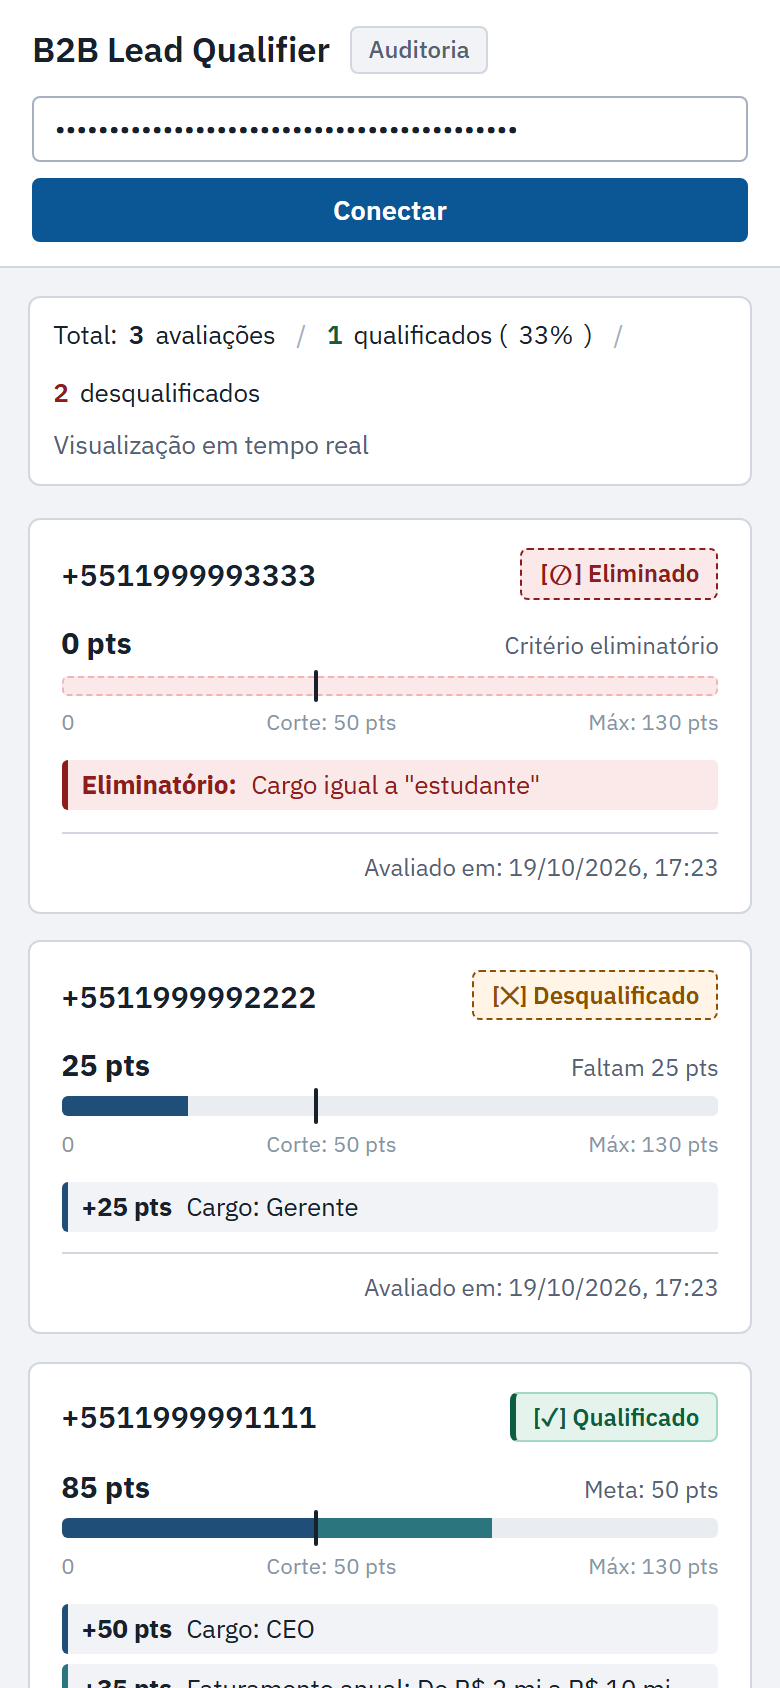
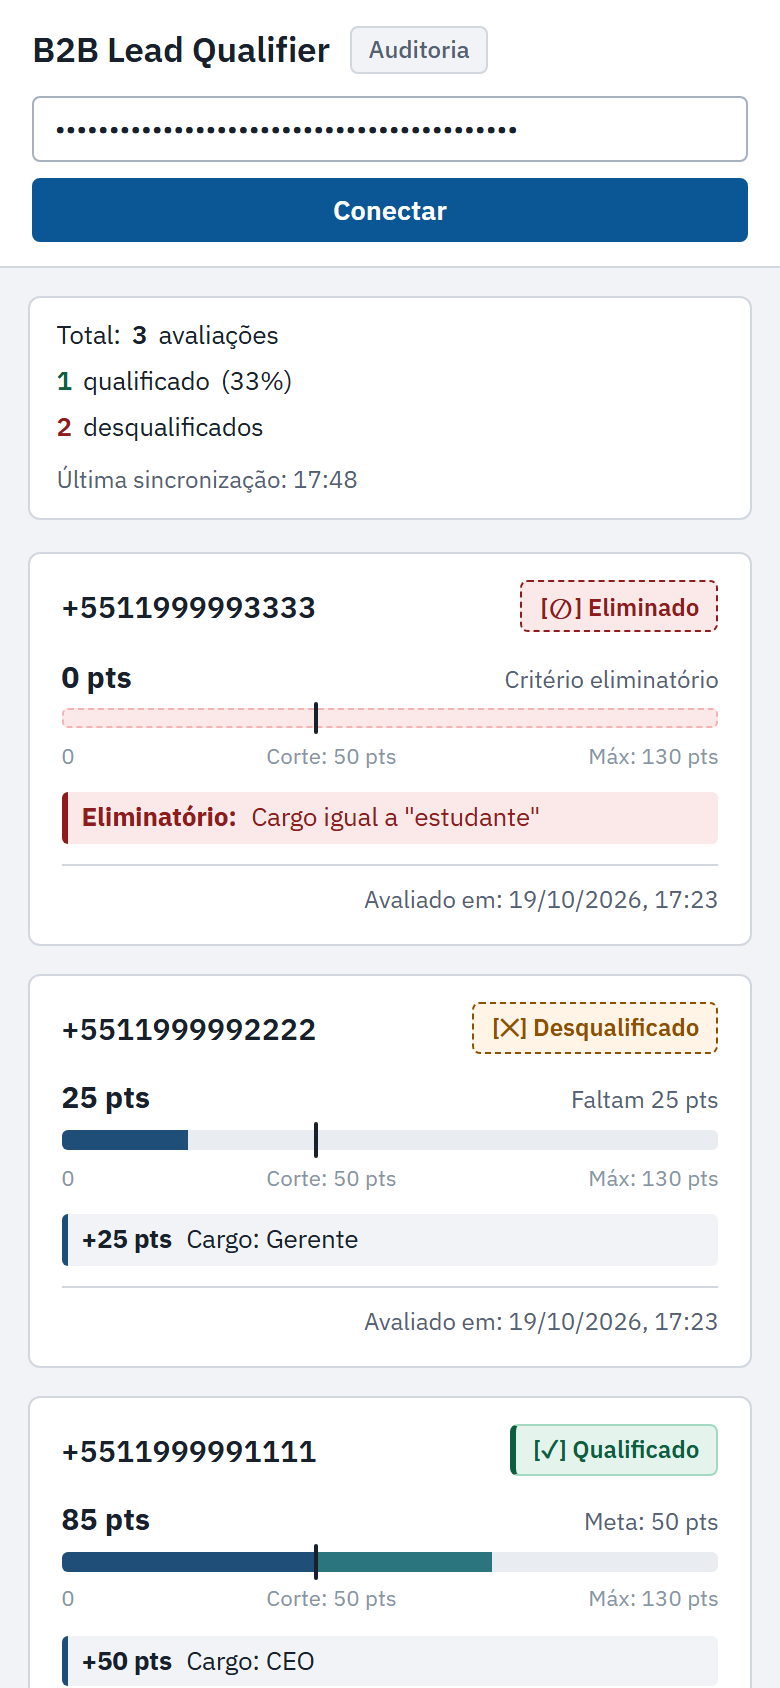
fix(dashboard): polish summary timestamp, percentage spacing, and mobile stack layout
Update summary bar to display Brazilian last sync time 'Última sincronização: HH:MM', format rate percentage without inner spaces '(33%)', and stack mobile summary parts vertically without slashes.

diff --git a/src/lead_qualifier/templates/dashboard.html b/src/lead_qualifier/templates/dashboard.html
@@ -587,8 +587,27 @@
             }
 
             .summary-bar {
-                padding: 0.6rem 0.75rem;
+                padding: 0.65rem 0.85rem;
                 font-size: 0.8rem;
+                flex-direction: column;
+                align-items: flex-start;
+                gap: 0.35rem;
+            }
+
+            .summary-main {
+                flex-direction: column;
+                align-items: flex-start;
+                gap: 0.25rem;
+            }
+
+            .summary-divider {
+                display: none !important;
+            }
+
+            .summary-aux {
+                font-size: 0.75rem;
+                color: var(--text-muted);
+                margin-top: 0.15rem;
             }
 
             /* No mobile, oculta tabela com rolagem e exibe fichas empilhadas */
@@ -656,12 +675,12 @@
                 <div class="summary-main">
                     <span class="summary-part">Total: <span id="summaryTotal" class="summary-count">0</span> avaliações</span>
                     <span class="summary-divider">/</span>
-                    <span class="summary-part"><span id="summaryQualified" class="summary-count qual">0</span> qualificados (<span id="summaryRate">0%</span>)</span>
+                    <span class="summary-part"><span id="summaryQualified" class="summary-count qual">0</span> <span id="summaryQualLabel">qualificados</span> <span id="summaryRate" class="summary-rate">(0%)</span></span>
                     <span class="summary-divider">/</span>
                     <span class="summary-part"><span id="summaryDisqualified" class="summary-count disq">0</span> desqualificados</span>
                 </div>
-                <div class="summary-aux">
-                    Visualização em tempo real
+                <div class="summary-aux" id="lastSync">
+                    Última sincronização: --:--
                 </div>
             </div>
 
@@ -978,8 +997,16 @@
                 // Atualização da linha de resumo integrada em texto
                 document.getElementById('summaryTotal').textContent = String(totalCount);
                 document.getElementById('summaryQualified').textContent = String(qualifiedCount);
-                document.getElementById('summaryRate').textContent = rate + '%';
+                document.getElementById('summaryQualLabel').textContent = qualifiedCount === 1 ? 'qualificado' : 'qualificados';
+                document.getElementById('summaryRate').textContent = '(' + rate + '%)';
                 document.getElementById('summaryDisqualified').textContent = String(disqualifiedCount);
+
+                const now = new Date();
+                const timeFormatted = new Intl.DateTimeFormat('pt-BR', {
+                    hour: '2-digit',
+                    minute: '2-digit'
+                }).format(now);
+                document.getElementById('lastSync').textContent = 'Última sincronização: ' + timeFormatted;
 
                 // Limpeza segura dos nós DOM
                 while (tableBody.firstChild) {
